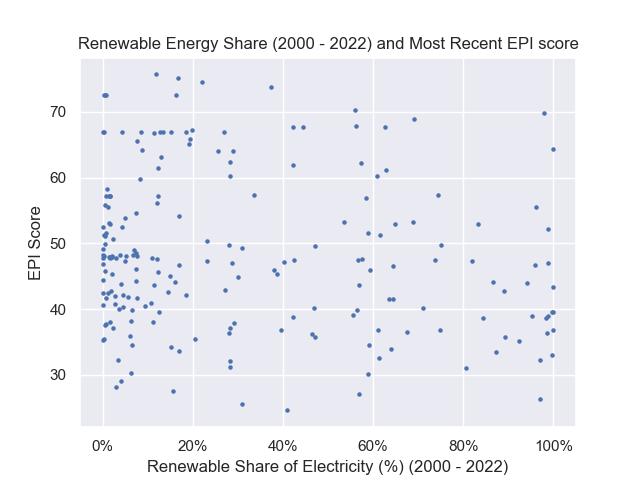
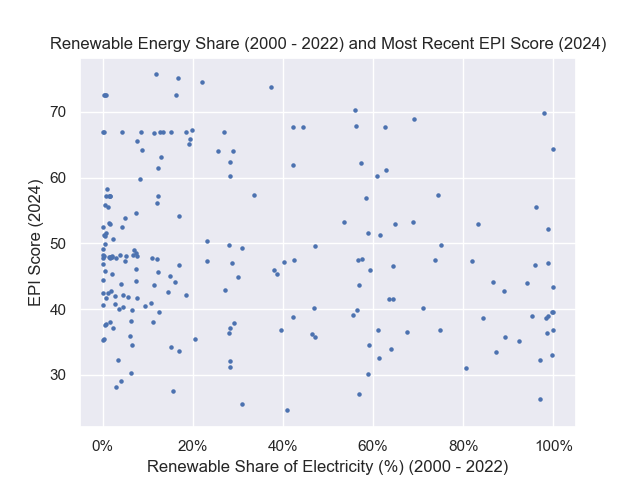
A few minor editions

Changed region(s): [[0.0625, 0.0625, 0.9375, 0.125], [0.0312, 0.375, 0.0625, 0.6562]]

diff --git a/wf_visualization.py b/wf_visualization.py
@@ -184,8 +184,8 @@ def main():
     #       8) Antigua and Barbuda 55.99068
     #       9) Estonia 55.35798
     fig, ax = plt.subplots()
-    ax.set(title="Public Flows (2000 - 2022) and Most Recent EPI score",
-           xlabel="Public Flows in Renewable Energy per Capita (USD) (2000 - 2022)", ylabel="EPI Score")
+    ax.set(title="Public Flows (2000 - 2022) and Most Recent EPI Score (2024)",
+           xlabel="Public Flows in Renewable Energy per Capita (USD) (2000 - 2022)", ylabel="EPI Score (2024)")
     ax.set_xlim(left=-2.5, right=42)
     ax.set_ylim(bottom=20, top=80)
     ax.scatter(proc_irena_epi["Public Flows per Capita (USD)"],
@@ -206,8 +206,8 @@ def main():
     #       8) Antigua and Barbuda 55.99068
     #       9) Estonia 55.35798
     fig, ax = plt.subplots()
-    ax.set(title="Public Flows (2000 - 2022) Most Recent CDA score",
-           xlabel="Public Flows in Renewable Energy per Capita (USD) (2000 - 2022)", ylabel="CDA Score")
+    ax.set(title="Public Flows (2000 - 2022) and Most Recent CDA score (2024) ",
+           xlabel="Public Flows in Renewable Energy per Capita (USD) (2000 - 2022)", ylabel="CDA Score (2024)")
     ax.set_ylim(top=85, bottom=-4)
     ax.set_xlim(left=-1.5, right=42)
     ax.scatter(proc_irena_epi["Public Flows per Capita (USD)"],
@@ -232,8 +232,8 @@ def main():
 
     # 6 BD - No outliers removed.
     fig, ax = plt.subplots()
-    ax.set(title="Renewable Energy Share (2000 - 2022) and Most Recent EPI score",
-           xlabel="Renewable Share of Electricity (%) (2000 - 2022)", ylabel="EPI Score")
+    ax.set(title="Renewable Energy Share (2000 - 2022) and Most Recent EPI Score (2024)",
+           xlabel="Renewable Share of Electricity (%) (2000 - 2022)", ylabel="EPI Score (2024)")
     ax.scatter(proc_irena_epi["Renewable Energy Share of Electricity Production (%)"],
                proc_irena_epi["EPI.new"], s=5)
     ax.xaxis.set_major_formatter(mtick.PercentFormatter(1.0))
@@ -243,9 +243,9 @@ def main():
     # 7 BE - One outlier removed with a CDA score of 100.
     #       1) Estonia: 100
     fig, ax = plt.subplots()
-    ax.set(title="Renewable Energy Share (2000 - 2022) and Most Recent CDA score",
+    ax.set(title="Renewable Energy Share (2000 - 2022) and Most Recent CDA Score (2024)",
            xlabel="Renewable Share of Electricity"
-                  " (%) (2000 - 2022)", ylabel="CDA Score")
+                  " (%) (2000 - 2022)", ylabel="CDA Score (2024)")
     ax.set_ylim(bottom=-5, top=85)
     ax.scatter(proc_irena_epi["Renewable Energy Share of Electricity Production (%)"],
                proc_irena_epi["CDA.new"], s=5)
@@ -264,8 +264,8 @@ def main():
     #       8) New Zealand: 1522.65159
     #       9) Paraguay: 1403.15577
     fig, ax = plt.subplots()
-    ax.set(title="Renewable Energy Capacity Per Capita \n (2000 - 2022) and Most Recent EPI score",
-           xlabel="Renewable Capacity per Capita (W) (2000 - 2022)", ylabel="EPI Score")
+    ax.set(title="Renewable Energy Capacity Per Capita and Most Recent EPI Score",
+           xlabel="Renewable Capacity per Capita (W/inhabitant)", ylabel="EPI Score")
     ax.scatter(proc_irena_epi["SDG 7b1 RE capacity per capita (W/inhabitant)"],
                proc_irena_epi["EPI.new"], s=5)
     ax.set_xlim(left=-100, right=1250)
@@ -285,8 +285,8 @@ def main():
     #      - One outlier removed with a CDA score of 100.
     #       1) Estonia: 100
     fig, ax = plt.subplots()
-    ax.set(title="Renewable Energy Capacity Per Capita \n (2000 - 2022) and Most Recent CDA score",
-           xlabel="Renewable Capacity per Capita (W) (2000 - 2022)", ylabel="CDA Score")
+    ax.set(title="Renewable Energy Capacity Per Capita \n (2000 - 2022) and Most Recent CDA Score (2024)",
+           xlabel="Renewable Capacity per Capita (W) (2000 - 2022)", ylabel="CDA Score (2024)")
     ax.scatter(proc_irena_epi["SDG 7b1 RE capacity per capita (W/inhabitant)"],
                proc_irena_epi["CDA.new"], s=5)
     ax.set_xlim(left=-70, right=1250)
@@ -296,8 +296,8 @@ def main():
 
     # 10 DE - No outliers removed.
     fig, ax = plt.subplots()
-    ax.set(title="Most Recent EPI score and Most Recent CDA score",
-           xlabel="EPI Score", ylabel="CDA Score")
+    ax.set(title="Most Recent EPI Score (2024) and Most Recent CDA Score (2024)",
+           xlabel="EPI Score (2024)", ylabel="CDA Score (2024)")
     ax.scatter(proc_irena_epi["EPI.new"],
                proc_irena_epi["CDA.new"], s=5)
     fig.show()

diff --git a/wf_dataprocessing.py b/wf_dataprocessing.py
@@ -36,7 +36,7 @@ def cap_per_capita(df):
     return irena_flows_and_cap
 
 def epi(df):
-    # This function calculates country averages for each of the features including data from 2000 to 2023,
+    # This function calculates country averages for each of the features including data from 2000 to 2022,
     # and adds the EPI and CDA 2024 indicators to this filtered dataframe.
     epi_cda = epi_data.filter(items=['iso', 'EPI.old', 'EPI.new', 'CDA.old', 'CDA.new'])
     epi_cda.rename(columns={'iso' : 'Country Code'}, inplace=True)
